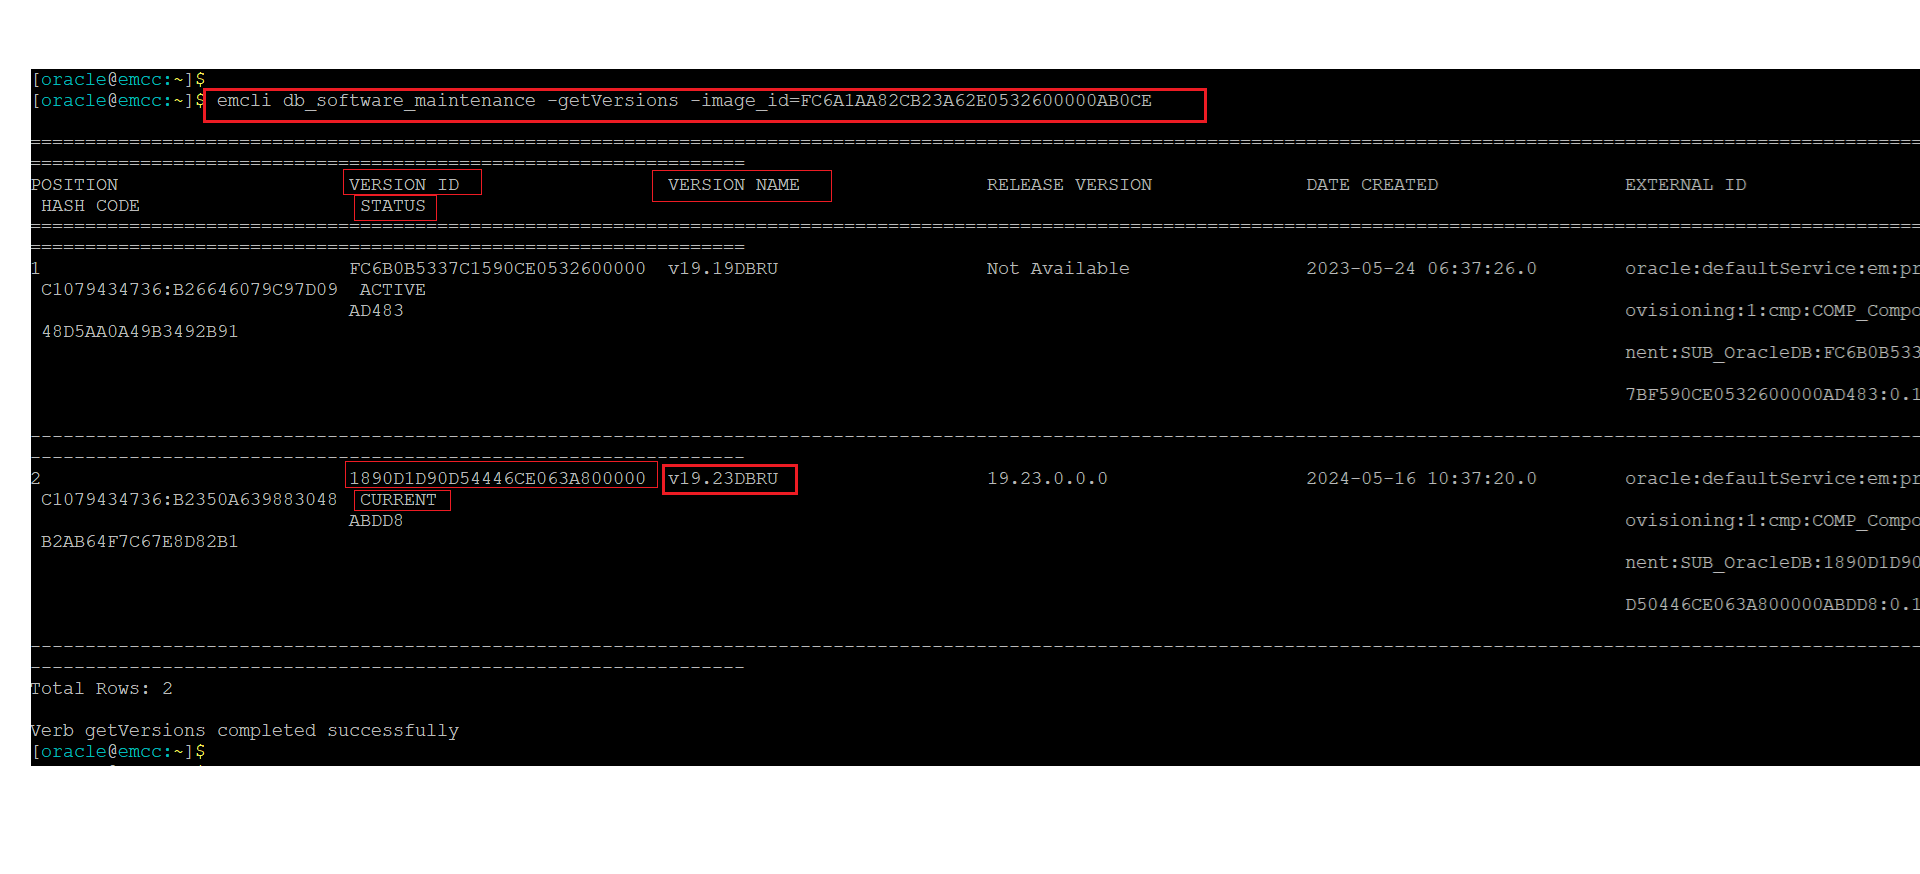
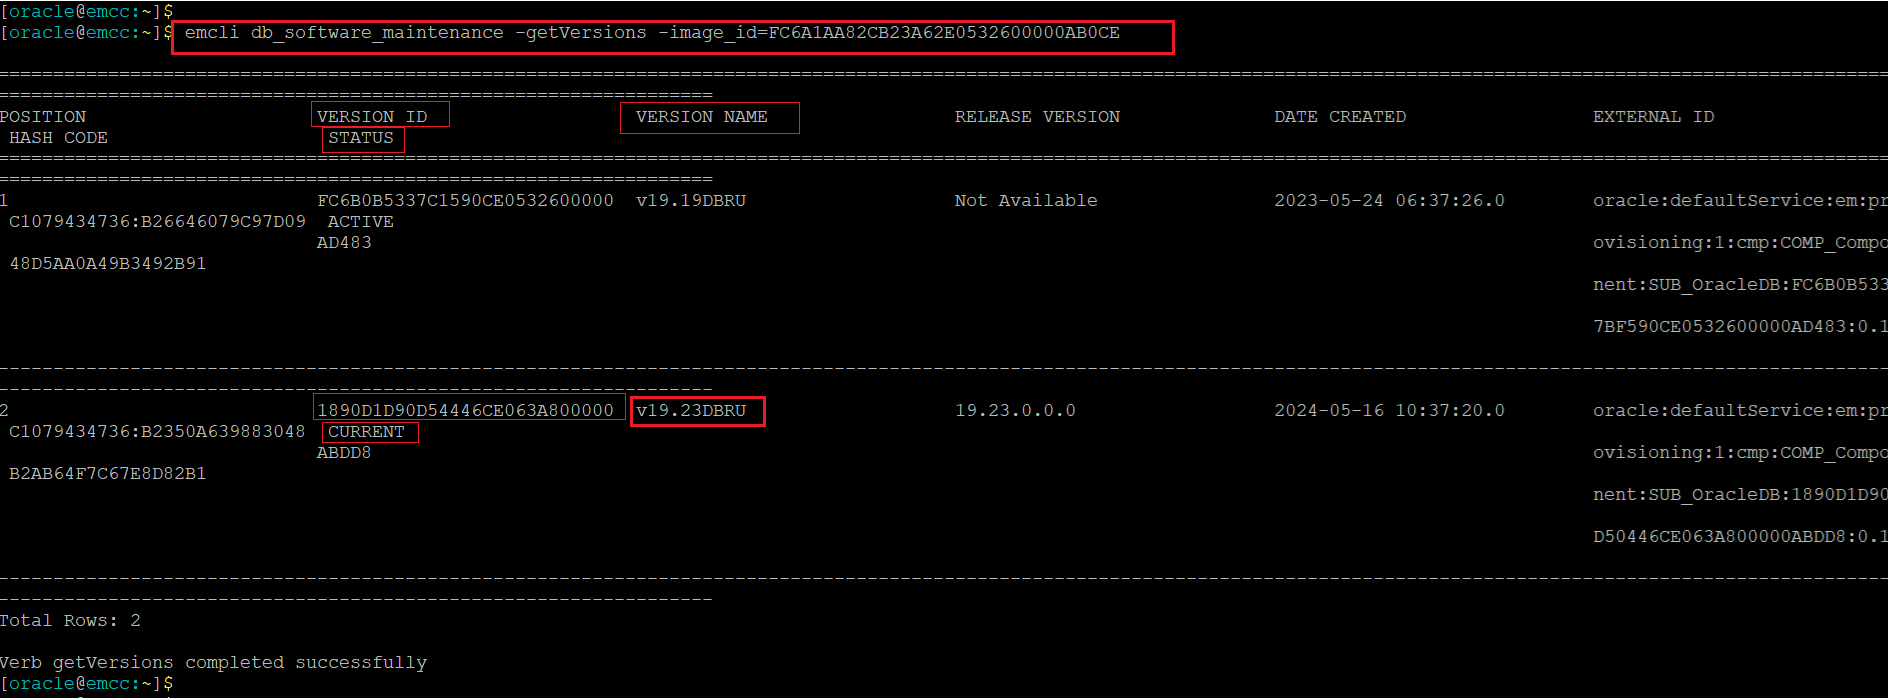
emcli upgrade lab changes

diff --git a/enterprise-manager/emcc/em-fleet-maintenance-upgrade/em-fleet-maintenance-upgrade.md b/enterprise-manager/emcc/em-fleet-maintenance-upgrade/em-fleet-maintenance-upgrade.md
@@ -71,19 +71,19 @@ Software Standardization Advisor enables administrators to understand various da
     Password: <copy>welcome1</copy>
     ```
 
-    ![](images/patch.png "vnc env homepage")
+  ![](images/patch.png "vnc env homepage")
 
 2.  After successful login, in the upper toolbar, locate the ***Targets*** icon and click the drop-down menu and then select ***Databases***.
 
-    ![](images/Target-Databases-Navig.png "Target-Databases-Navigation")
+  ![](images/Target-Databases-Navig.png "Target-Databases-Navigation")
 
 3.  On the Databases targets page, click on the ***Administration*** tab, drop down the menu, and select Software ***Standardization Advisor***
 
-    ![](images/new-software-std-advisor.png "additional items in drop down ")
+  ![](images/new-software-std-advisor.png "additional items in drop down ")
 
 4.  Software Standardization Advisor shows two graphs depicting current configuration and recommended configuration.
 
-    ![](images/generate-report.png "pollution detection report generation ")
+  ![](images/generate-report.png "pollution detection report generation ")
 
     Graphs may look different from the ones represented in the workbook.
     A Software Configuration is identified by the database release, platform, and the patches installed on the target.
@@ -94,40 +94,40 @@ Software Standardization Advisor enables administrators to understand various da
 
 
 5.  On the same page, click on **Generate Report**. Select yes when it prompts to generate the report.
-    ![](images/generate-report-confirmation.png "pollution detection report generation ")
+  ![](images/generate-report-confirmation.png "pollution detection report generation ")
 
 
 6.  On the same page, click on **Current Configurations** to open the Excel report.
 
-    ![](images/current-config.png "current config")
+  ![](images/current-config.png "current config")
 
     When you download the report, a warning on XLS format and file extension mismatch pops up (like below). Simply click on “Yes” to ignore the warning and open the file.
 
-    ![](images/Homepage-SSA.png "Homepage-SSA")
+  ![](images/Homepage-SSA.png "Homepage-SSA")
 
     Alternately, you might see a pop up for import options, while opening the file. Select OK and you should be able to view the contents of the file.
 
-    ![](images/open-office-msg.png "pop-up message")
+  ![](images/open-office-msg.png "pop-up message")
 
     From the report, you will see the current environment has six different Oracle home software versions.
 
-    ![](images/config-report.png "current-report")
+  ![](images/config-report.png "current-report")
 
     Incase you are unable to review the report in Livelab VNC, then open the environment url directly on your laptop browser and run the report again. Example: If you see instance IP address as 129.146.247.99, then the url to open on your browser will be https://129.146.247.99:7803/em .
 
-    ![](images/workshop-instance.png "workshop")
+  ![](images/workshop-instance.png "workshop")
 
     Please accept any warning message that your browser may show to continue to login to Enterprise Manager.
 
 7.  Next, click on **Recommended Configurations** to open the Excel Report.
 
-    ![](images/recommend-config.png "recommended changes ")
+  ![](images/recommend-config.png "recommended changes ")
 
     <!-- The report recommends a reduction of the 5 configurations and standardizing the database estate to 2 configurations (18c and 19c). This means all Oracle homes for Release 18c should uptake the standard 18c configuration and the 19c Oracle homes the standard 19c configuration. -->
 
     The reports recommendation is to consolidate the configuration drift (pollution) from the current six database to two (18c and 19c). This recommendation would reduce the number of configurations and standardize the environment for easier management.
 
-    ![](images/recommend-report.png "recommendations ")
+  ![](images/recommend-report.png "recommendations ")
 
     The recommendation is based on a union of bugs included in the patches in all Oracle homes and based on the configuration type.
 
@@ -152,16 +152,16 @@ A gold image is the end of state software definition that contains information a
 
    <!--![](images/DB_Fleet_Upgrade.png " ") -->
 
-   ![](images/new-db-fleet-patching.png "new look and feel")
+  ![](images/new-db-fleet-patching.png "new look and feel")
 ### **Upgrading with Fleet Maintenance**
 
 Starting with Enterprise Manager 13.5 RU16, Enterprise Manager offers a new interface - Fleet Maintenance Hub to ease automated update(patching), and upgrade of your database fleet. The Fleet Maintenance Hub within Enterprise Manager offers a comprehensive solution for managing database vulnerabilities and patch operations. It streamlines the process by identifying potential security risks, providing patch recommendations, and enabling efficient scheduling and monitoring of patching and upgrade operations. With the ability to manage diverse infrastructures and ensure compliance with patch policies, the Fleet Maintenance Hub serves as a centralized and powerful tool for maintaining the security and stability of database assets.
 
-We will go through steps for upgrading database target ***cdb186.subnet.vcn.oraclevcn.com***, a Container Database currently at 18.8.0.0.0. The goal is to upgrade this target to 19.23.0.0.0. Instead of DBUA, we will use Auto Upgrade tool, which is the recommended method by Database Team.
+We will go through steps for upgrading database target ***cdb186.subnet.vcn.oraclevcn.com***, a Container Database currently at 18.8.0.0.0. The goal is to upgrade this target to 19.23.0.0.0. Instead of Auto Upgrade, we will use DBUA utility. To use Auto Upgrade, please review our UI lab for Database upgrade.
 
 1. Return to the browser page with the Oracle Enterprise Manager Console (log back in if needed) and from the EM home page, select the ***Targets*** drop-down menu and select ***Databases*** to review the status and version of database targets.
 
-   ![](images/Target-Databases-Navig.png "Target-Databases-Navigation")
+  ![](images/Target-Databases-Navig.png "Target-Databases-Navigation")
 
 
     You will see the *cdb186.subnet.vcn.oraclevcn.com* database.
@@ -179,31 +179,30 @@ We will go through steps for upgrading database target ***cdb186.subnet.vcn.orac
 
   2. From the Database page, navigate to the ***Administration*** drop-down menu and then select ***Fleet Maintenance Hub***.
 
-      ![](images/Launch-Hub.png "Hub Homepage")
+  ![](images/Launch-Hub.png "Hub Homepage")
 
       Click on middle Tile 2, which is **Patch Recommendations for Images**. Here we see two gold images. The highlighted one is a healthy image, which has all the patch recommendations. We will use this gold image to complete our patching activity in this lab.
 
-      ![](images/Hub-Tile2.png "Hub Homepage")
+  ![](images/Hub-Tile2.png "Hub Homepage")
 
   3. Alternately, you can run emcli to list available Gold Images. Execute the following commands in the terminal to see the list of Gold Images available
 
      To  retrieve Column values in same line, execute the below format command in terminal
 
-      ```
-      <copy>emctl set property -name oracle.sysman.dbprov.gis.emcli.verbs.tableLength -value 238</copy>
-      ```
-
+  ```
+  <copy>emctl set property -name oracle.sysman.dbprov.gis.emcli.verbs.tableLength -value 238</copy>
+  ```
 
   This will prompt for sysman password. Enter
 
-      ```
-     <copy>welcome1</copy>
-     ```
+  ```
+ <copy>welcome1</copy>
+ ```
 
   Now execute below command to list out relevant information about existing gold images.
-          ```
-          <copy>emcli db_software_maintenance -getImages</copy>
-          ```
+  ```
+  <copy>emcli db_software_maintenance -getImages</copy>
+  ```
 
   ![](images/emcli-list-images.png "list images")
 
@@ -211,16 +210,16 @@ We will go through steps for upgrading database target ***cdb186.subnet.vcn.orac
 
   After retrieving a list of the available images, one can view a list of versions available for a specific image with the following command:
 
-  If the image id for Gold Image ***19cDB-Linux-x64-APPS*** is same as above, then use the below command to get the version details of this image.
+  If the image id for Gold Image ***19cDB-Linux-x64-Apps*** is same as above, then use the below command to get the version details of this image.
 
-         ```
-          <copy>emcli db_software_maintenance -getVersions -image_id=FC6A1AA82CB23A62E0532600000AB0CE</copy>
-          ```   
+  ```
+  <copy>emcli db_software_maintenance -getVersions -image_id=FC6A1AA82CB23A62E0532600000AB0CE</copy>
+  ```   
   else, use the below command by inserting the appropriate value in the image id column.
 
-          ```
-          <copy>emcli db_software_maintenance -getVersions -image_id={Insert IMAGE ID from List available gold images}</copy>
-          ```   
+  ```
+  <copy>emcli db_software_maintenance -getVersions -image_id={Insert IMAGE ID from List available gold images}</copy>
+  ```   
   This command lists Gold Image versions with their VERSION ID and STATUS.
 
   ![](images/emcli-list-version.png "version list")
@@ -232,14 +231,14 @@ We will go through steps for upgrading database target ***cdb186.subnet.vcn.orac
 1.  Review emcli command to subscribe cdb186 database.
 
     ```
-    <copy>emcli db_software_maintenance -subscribeTarget -target_name=cdb186.subnet.vcn.oraclevcn.com -target_type=oracle_database -image_id="A5F3D8523BDF635BE0531A00000AA55B"</copy>
+    <copy>emcli db_software_maintenance -subscribeTarget -target_name=cdb186.subnet.vcn.oraclevcn.com -target_type=oracle_database -image_id="FC6A1AA82CB23A62E0532600000AB0CE"</copy>
     ```
 
-If the image id for Gold Image ***19cDB-Linux-x64-APPS*** is different, the update the below command by inserting the appropriate value in the image id column.
+If the image id for Gold Image ***19cDB-Linux-x64-Apps*** is different, the update the below command by inserting the appropriate value in the image id column.
 
-```
-<copy>emcli db_software_maintenance -subscribeTarget -target_name=cdb186.subnet.vcn.oraclevcn.com -target_type=oracle_database -image_id={Insert IMAGE ID from List available gold images}</copy>
-```
+  ```
+  <copy>emcli db_software_maintenance -subscribeTarget -target_name=cdb186.subnet.vcn.oraclevcn.com -target_type=oracle_database -image_id={Insert IMAGE ID from List available gold images}</copy>
+  ```
 
   ![](images/emcli-subscribe-cdb186.png "subscribe command")
 
@@ -253,85 +252,106 @@ If the image id for Gold Image ***19cDB-Linux-x64-APPS*** is different, the upda
 
 1.   Review and execute the following command to deploy a new Oracle Home.
 
-    ```
-    <copy>cd ~/fleet; sh deploy1923_cdb186.sh</copy>
-    ```
+  ```
+  <copy>cd ~/fleet; sh deploy1923_cdb186.sh</copy>
+  ```
 
   ![](images/emcli-deploy-cdb186.png "deploy OH using emcli")
 
-
-    Where:
-      - NEW\_ORACLE\_HOME\_LIST = Absolute path to the File System location where new Oracle Home will be deployed.
-      - procedure\_name\_prefix = optional, prefix for the deployment procedure instance name
-      - name = Name of the operation. This is a logical name and should be kept unique
-      - purpose = There are standard purposes defined which can be performed by Fleet Operations. “DEPLOY\_DB\_SOFTWARE” is one of them. These are predefined and should not be changed. Admin shall select one of the below mentioned purposes as and when needed.
-      - normal\_credential = This should be provided in the format \{Named Credential: Credential Owner\}.
-      - privilege\_credential = This should be provided in the format \{Named Credential: Credential Owner\}
-      - start\_schedule = Schedule when the stage and deploy should start if that needs to be done in future. Format: “start\_time:yyyy/mm/dd HH:mm”. It is an optional parameter, if not provided, operation will start immediately
-      - target\_type = The type of target being provided in this operation.
-      - target\_list =
-         1. This is a comma separated list of targets which need to be patched.
-         2. Targets of homogenous types are supported in a single fleet operation.
-         3. The system will calculate the unique list of hosts based on this target list and start stage of Oracle home software on those hosts.
-         4. If targets running from same Oracle home are provided in this list, the stage and deploy operation will be triggered only once and not for all targets.
-
 2. Navigate to ***Enterprise >> Provisioning and Patching >> Procedure Activity*** to Review Execution Details of this operation via Enterprise Manager Console.
 
-    ![](images/navigate-dp.png "DP Navigation")
- Click on ‘DEPLOY\_SYSMAN\_\*’ run
+  ![](images/navigate-dp.png "DP Navigation")
 
-     ![](images/deploy-dp.png "deploy dp")
+ Click on ‘DEPLOY*’ run
+
+  ![](images/deploy-dp.png "deploy dp")
 
 3. Review the Procedure Activity steps performed.
 
-    ![](images/deploy-complete.png "deploy dp complete")
+  ![](images/deploy-complete.png "deploy dp complete")
 
 ## Task 7: Migrate Listener to New Upgraded Home
 
 1. Review and execute the following command to Migrate the Listener
 
-    ```
-    <copy>sh migrate_listener_cdb186_update.sh</copy>
-    ```
+  ```
+  <copy>sh migrate_listener_cdb186_update.sh</copy>
+  ```
 
-    ![](images/emcli-migrate.png "emcli listener migration")
+  ![](images/emcli-migrate.png "emcli listener migration")
 
 2. Navigate to ***Enterprise >> Provisioning and Patching >> Procedure Activity*** to Review Execution Details of this operation via Enterprise Manager Console. Click on ‘Fleet\_migrate\_\*’ run
 
-    ![](images/navigate-dp.png "navigate dp")
+  ![](images/navigate-dp.png "navigate dp")
 
 3. Review the Procedure Activity steps performed.
 
-    ![](images/migrate-DP.png "migrate dp")
+  ![](images/migrate-DP.png "migrate dp")
 
 ## Task 8: Update Database – Upgrade to 19.23
 
 With the deploy operation completed successfully, we are ready to run the final UPDATE operation which upgrades the database by switching it to the newly deployed home.
 
+In this lab, we will use DBUA utility to upgrade database. Starting with Enterprise Manger 13.5 Release Update 18 (13.5.0.18) AutoUpgrade is the default tool used for upgrading databases using Fleet Maintenance. To use DBUA, execute the below query.
+
+```
+<copy>emctl set property -name oracle.sysman.db.upgrade_using_autoupgrade_tool -sysman_pwd welcome1 -value false</copy>
+```
+  ![](images/set-dbua.png "enable dbua")
+
 1. Review and execute below command to update DB Target *cdb186.subnet.vcn.oraclevcn.com*
 
-    ```
-    <copy>sh update_cdb186.sh</copy>
-    ```
+  ```
+  <copy>sh update_cdb186.sh</copy>
+  ```
 
-    ![](images/upgrade-cdb186.png "emcli to upgrade")
+  ![](images/upgrade-cdb186.png "emcli to upgrade")
 
     Where:  
       - Name – Name of the operation. This is a logical name and should be kept unique  
       - Purpose – There are standard purposes defined which can be performed by Fleet Operations. “UPDATE\_DB” is one of them.
 
-2. Navigate to the Procedure Activity Page and monitor the progress of this operation with ‘Fleet\_UPDATE\_...’ deployment procedure instance.
+2. Navigate to the Procedure Activity Page and monitor the progress of this operation with ‘Fleet\_Upgrade\_...’ deployment procedure instance.
 
-    ![](images/upgrade-dp.png "upgrade dp list")
+  ![](images/upgrade-dp.png "upgrade dp list")
 
 3. Review the Procedure Activity steps performed
 
-    ![](images/upgrade-dp-complete.png "upgrade dp complete")
+  ![](images/upgrade-dp-complete.png "upgrade dp complete")
 
 4. Verify the Upgraded target by going to ***Targets >> Databases*** as shown below. Operation above will take \~40 minutes to complete.
 
-    ![](images/post-upgrade-version.png "verify dp")
+  ![](images/post-upgrade-version.png "verify dp")
 
+## Task 9: Cleanup Old Oracle Home
+
+1. Execute the following command as a dry-run to report on cleanup impact for *cdb186.subnet.vcn.oraclevcn.com*  
+
+    ```
+    <copy>sh cleanup_cdb186_report.sh</copy>
+    ```
+
+ ![](images/emcli-cleanup-cdb186-report.png "cleanup command")
+
+2. Execute the following command to cleanup *cdb186.subnet.vcn.oraclevcn.com*   
+
+    ```
+    <copy>sh cleanup_cdb186.sh</copy>
+    ```
+
+  ![](images/cleanup-dp-submit.png "cleanup DP")
+
+3. Navigate to the Procedure Activity Page and monitor the progress of this operation with ‘CLEANUP\_SOFTWARE\_...’ deployment procedure instance.
+
+  ![](images/cleanup-dp-complete.png "DP complete")
+
+4. Verify to confirm the old Oracle Home has been removed
+
+  ```
+  <copy>ls -ltr /u01/app/cdb186/cdb186</copy>
+  ```
+
+![](images/cleanup-verification.png "cleanup verification")    
 
 This completes this lab.
 

diff --git a/enterprise-manager/emcc/em-dblm-update-compliance/em-dblm-update-compliance.md b/enterprise-manager/emcc/em-dblm-update-compliance/em-dblm-update-compliance.md
@@ -120,7 +120,7 @@ In this task, we will perform Pluggable Database patching. In this scenario, we 
 
 Lets complete below steps to perform the pdb patching.
 
-1. Subscribe sales CDB to goldimage ***19cDB-Linux-x64-APP***.
+1. Subscribe sales CDB to goldimage ***19cDB-Linux-x64-APPS***.
 
 Under the "Target Subscription" tab in the Fleet Maintenance Hub, follow these steps:
 
